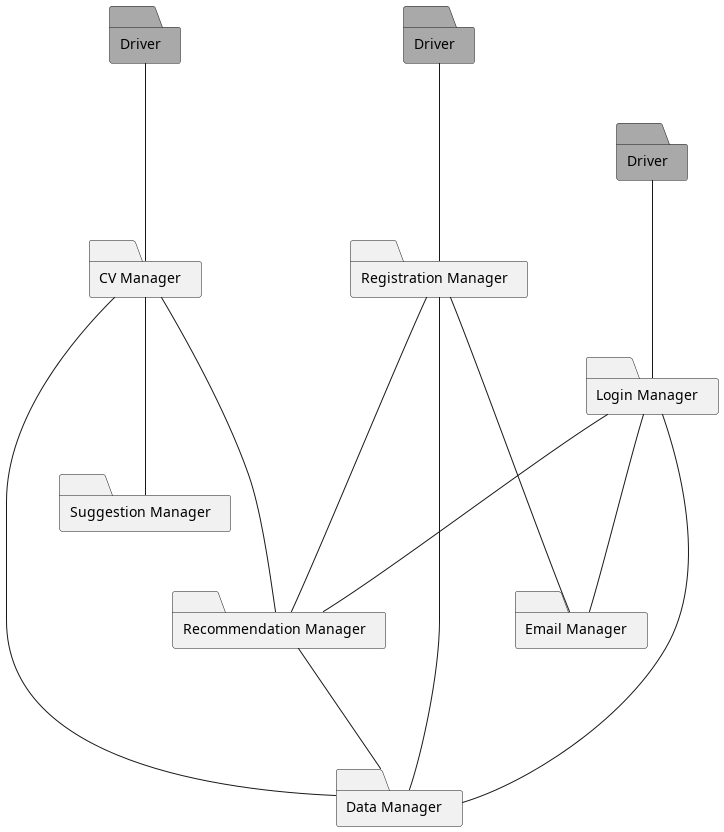
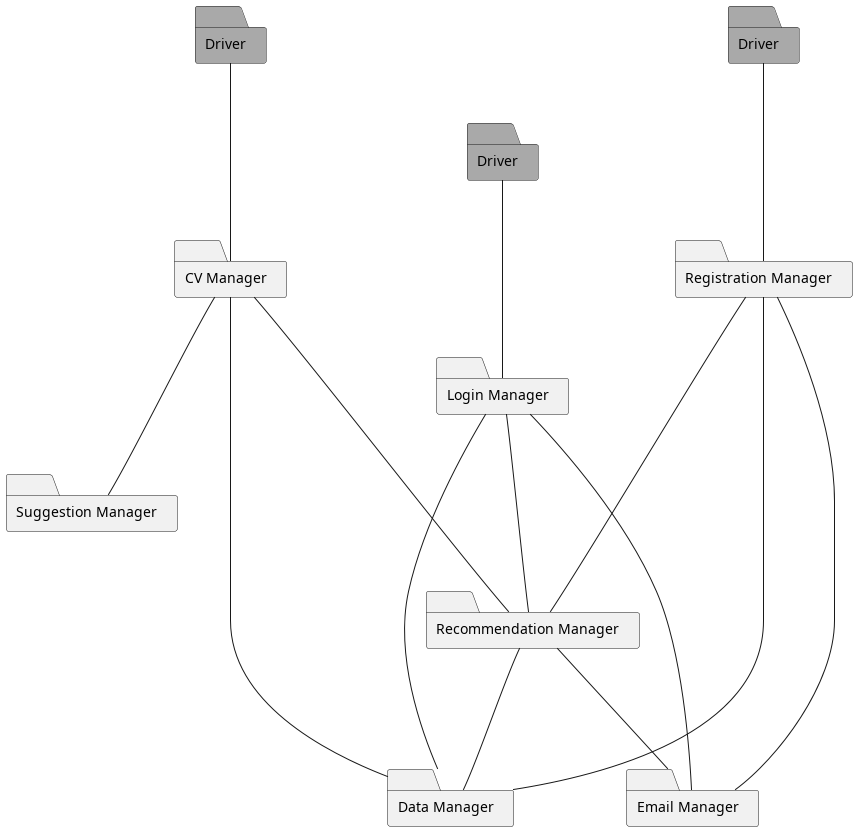
refactor: move the developement of the Email Manager from the "Login and Registration" feature to "Recommendations" feature

diff --git a/DD/Implementation_integration_and_test_plan/main.tex b/DD/Implementation_integration_and_test_plan/main.tex
@@ -41,11 +41,11 @@ By scaling up incrementally from a smaller subset of the system (divide and conq
 \subsection{Component Integration and Testing}
 
 \compDevel{Recommendations}{
-The first components to be developed and tested will be the Data Manager and the Recommendation Manager.
+The first components to be developed and tested will be the Data Manager, the Recommendation Manager and the Email Manager.
 }{0.3}
 
 \compDevel{Login and Registration}{
-The next components to be integrated will be the Registration Manager, the Login Manager and the Email Manager. 
+The next components to be integrated will be the Registration Manager and the Login Manager. 
 The first two must be tested accurately to keep the system safe from malicious input.
 }{0.3}
 
@@ -70,13 +70,13 @@ The next component will be the Selection Manager, the Interview Scheduler and th
 The component that will be developed is the Internship Status Manager.
 }{0.2}
 
-%Finally the last componennt, the controller will be developed.
-%
-%\begin{figure}[H]
-%    \centering
-%    \includegraphics[scale=0.2]{Implementation_integration_and_test_plan/uml_diagrams/feat8.png}
-%    \caption{Login and registration developement.}
-%\end{figure}
+Finally, the last component will be integrated: the controller.
+
+\begin{figure}[H]
+    \centering
+    \includegraphics[scale=0.2]{Implementation_integration_and_test_plan/uml_diagrams/feat8.png}
+    \caption{Developement of the \textit{Controller}.}
+\end{figure}
 
 \subsection{System Testing}
 The system must be tested to verify that each functional and non-functional requirement as stated in the RASD document is respected. To do so, the following steps will be followed
